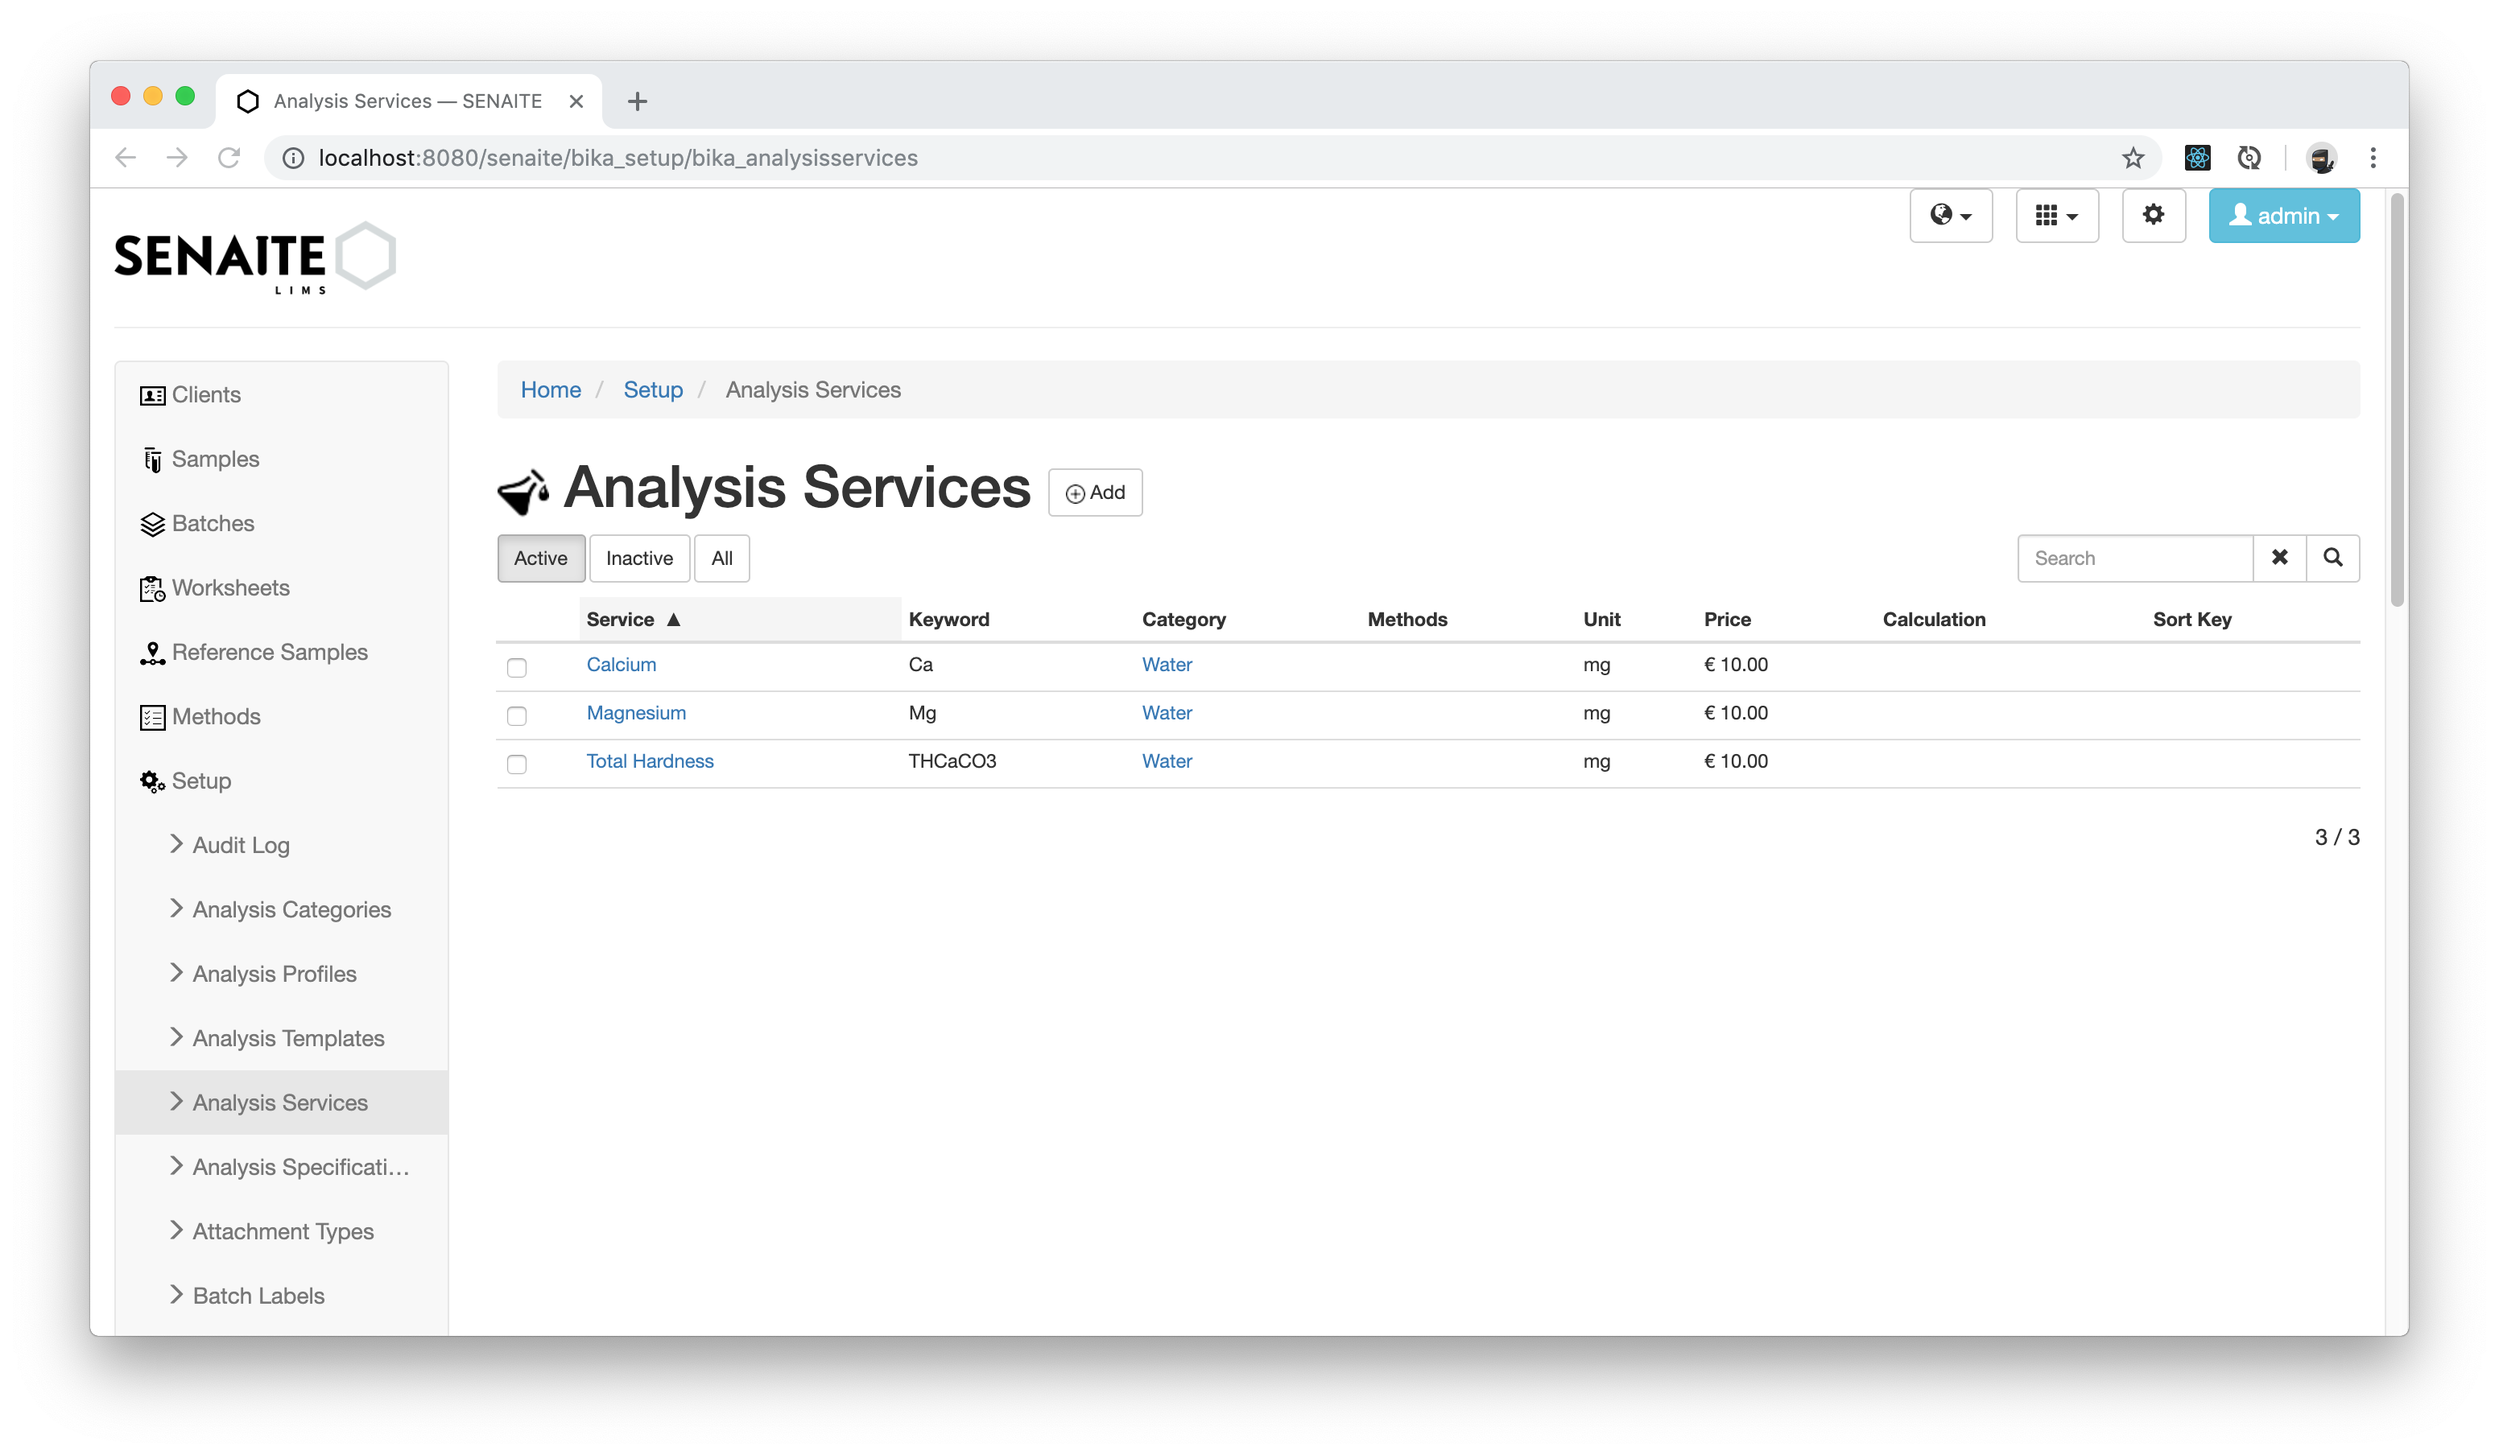
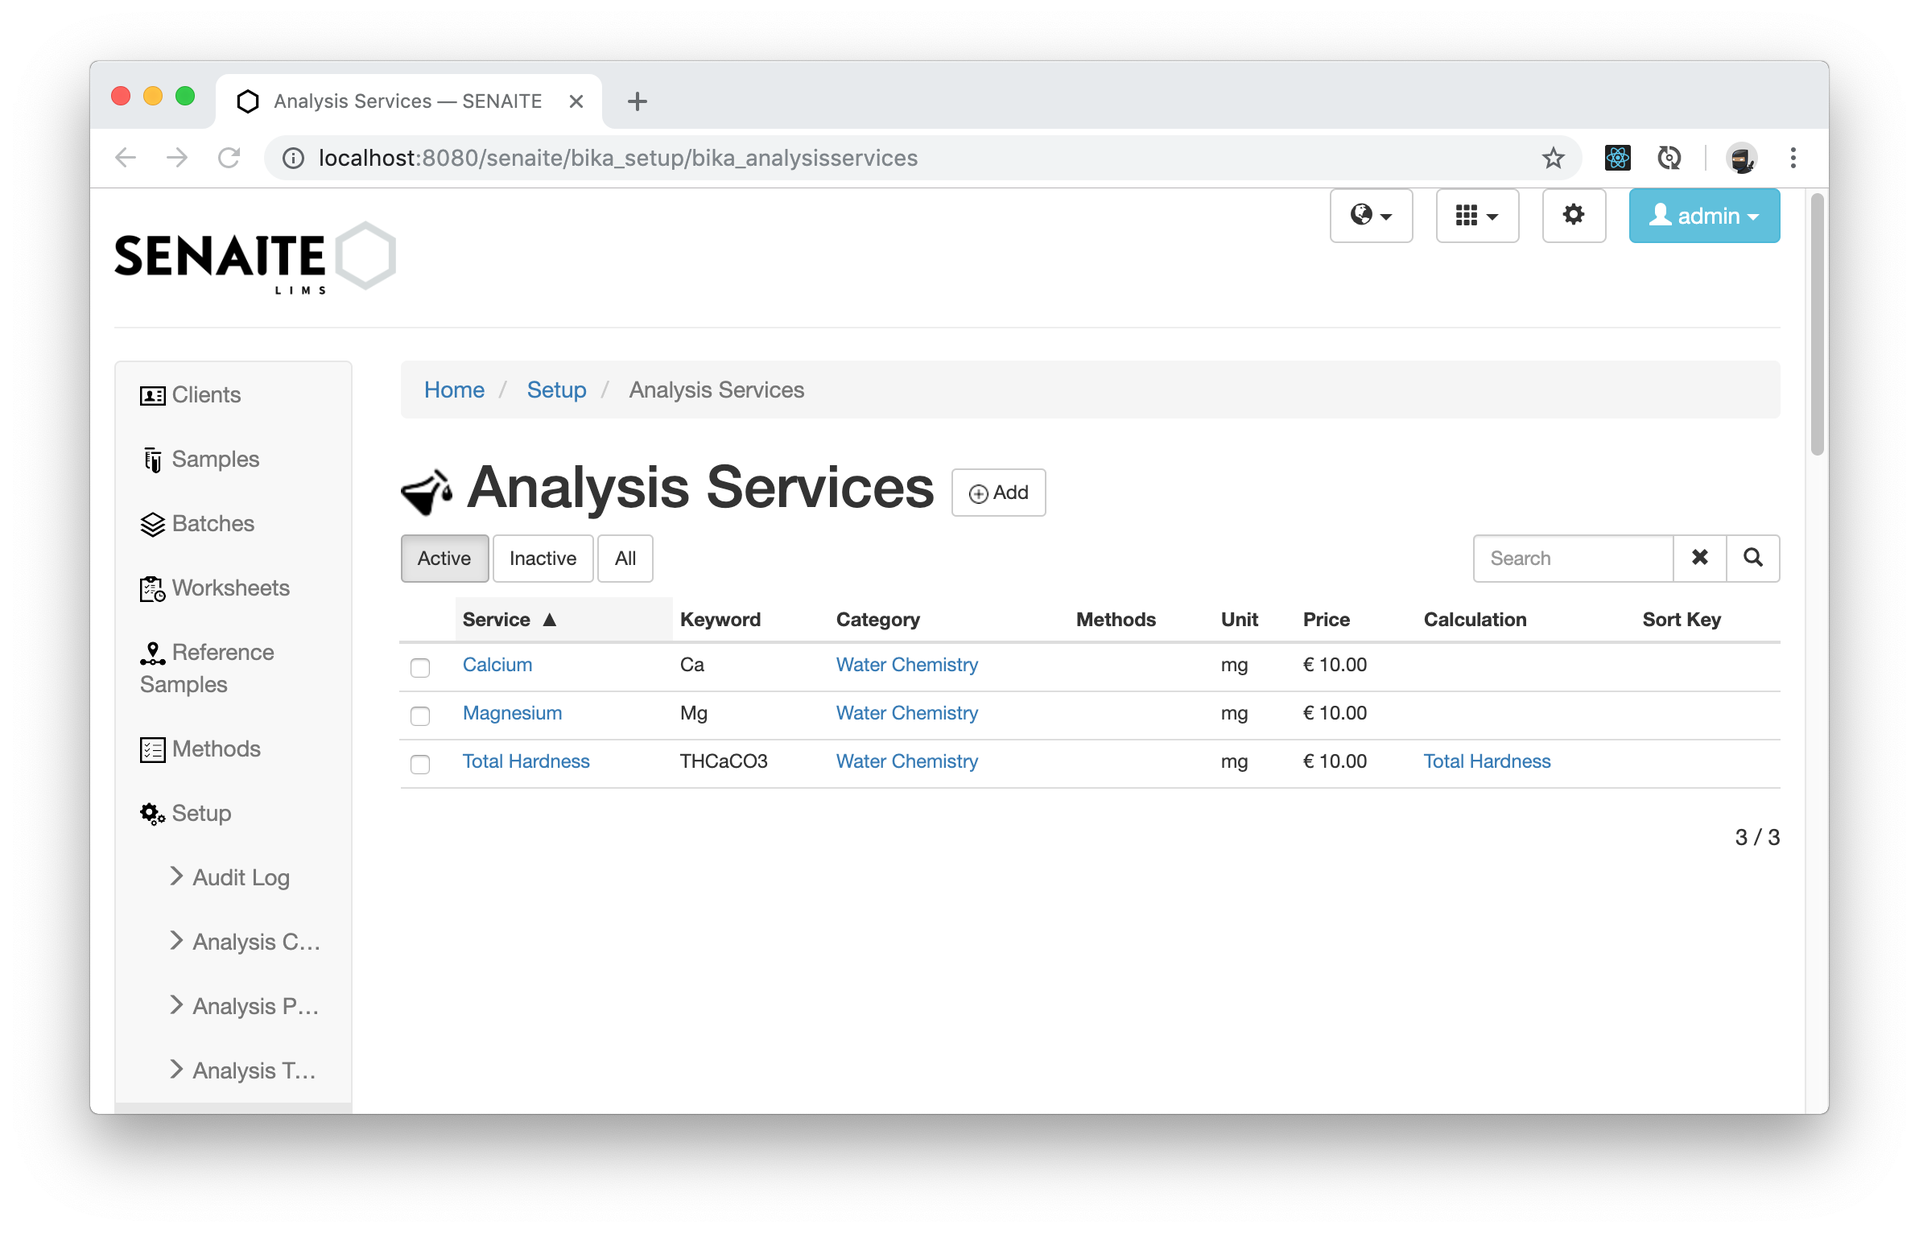
Fixed Analysis Category

diff --git a/docs/quickstart.md b/docs/quickstart.md
@@ -61,13 +61,14 @@ Currently, your SENAITE installation has no analysis categories configured.
 
 ![Analysis Categories](/screenshots/analysis_categories_listing.png "Analysis Categories")
 
-Let's add the category *Metal* to group together analyses which trace metals by
-clicking the *Add* Button above the listing table.
+Let's add the category *Water Chemistry* to group together chemical water
+analyses by clicking the *Add* Button above the listing table.
 
 ![Add Analysis Category](/screenshots/add_analysis_category_screen.png "Add a new Analysis Category")
 
-- Title: `Metals`
-- Description: `Trace metals in water`
+- Title: `Water Chemistry`
+- Description: `Chemical water analyses`
+- Department: `Chemistry`
 
 Click again the *Save* button when you are done.
 
@@ -87,7 +88,7 @@ for the *Calcium* analysis as follows:
 - Unit: `mg`
 - Analysis Keyword: `Ca`
 - Point of Capture: `Lab`
-- Analysis Category: `Water`
+- Analysis Category: `Water Chemistry`
 - Price (excluding VAT): `10`
 - Department `Chemistry`
 
